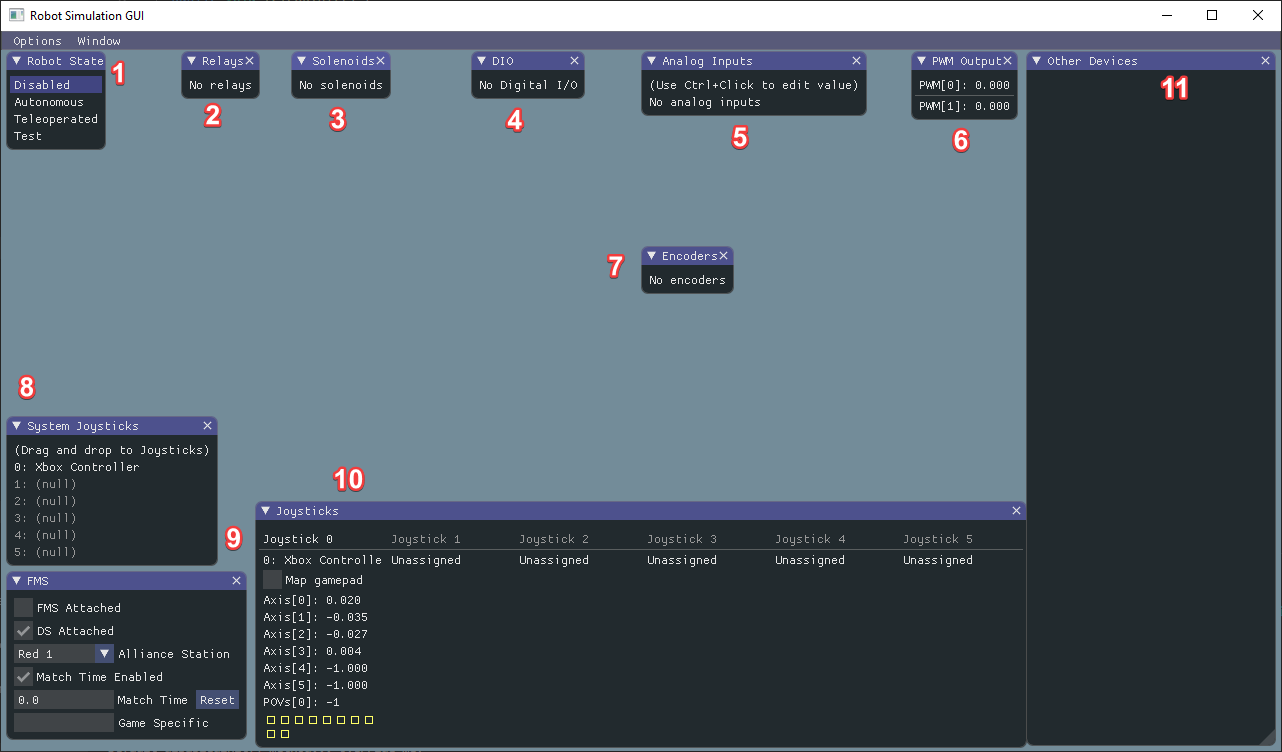
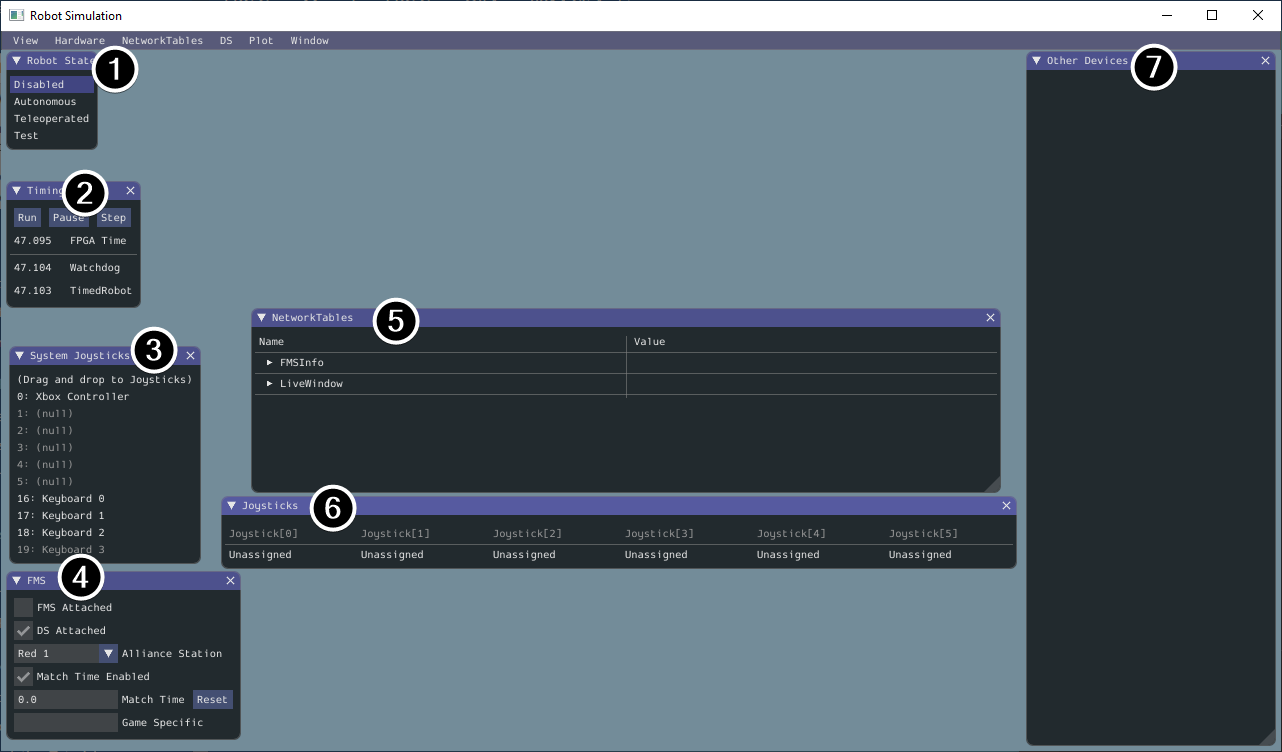
Update for 2021 Sim GUI

diff --git a/source/docs/software/wpilib-tools/robot-simulation/simulation-gui.rst b/source/docs/software/wpilib-tools/robot-simulation/simulation-gui.rst
@@ -8,12 +8,15 @@ WPILib has extended robot simulation to introduce a graphical user interface (GU
 Running the GUI
 ---------------
 
-You can simply launch the GUI via the **Run Simulation** command palette option.
-
 .. image:: images/vscode-run-simulation.png
    :alt: Running simulation via VS Code
 
-And the ``halsim_gui.dll`` option should popup in a new dialog. Select this and press **Ok**. This will now launch the Simulation GUI!
+You can simply launch the GUI via the **Run Simulation** command palette option.
+
+.. image:: images/vscode-pick-extension.png
+   :alt: Picking halsim_gui.dll simulation extension
+
+And the ``halsim_gui.dll`` option should popup in a new dialog (``halsim.gui.so`` on Linux and ``halsim_gui.dylib`` on macOS). Select this and press **Ok**. This will now launch the Simulation GUI!
 
 .. image:: images/sim-gui.png
    :alt: The simulation graphical user interface
@@ -27,17 +30,26 @@ Learning the Layout
 .. image:: images/sim-gui-with-labels.png
    :alt: Simulation graphical user interface but with labels
 
+The following items are shown on the simulation GUI by default:
+
 1. **Robot State** - This is the robot's current state or "mode". You can click on the labels to change mode as you would on the normal Driver Station.
-2. **Relays** - This includes any relay devices. This includes VEX Spike relays.
-3. **Solenoids** - This is a list of "connected" solenoids. When you create a solenoid object and push outputs, these are shown here.
-4. **DIO** - (Digital Input Output) This includes any devices that use the **DIO** connector on the roboRIO.
-5. **Analog Inputs** - This includes any devices that would normally use the **ANALOG IN** connector on the roboRIO, such as any Analog based gyros.
+2. **Timing** - Shows the values of the Robot's timers and allows the timing to be manipulated.
+3. **System Joysticks** - This is a list of joysticks connected to your system currently.
+4. **FMS** - This is used for simulating many of the common FMS systems.
+5. **NetworkTables** - This shows the data that has been published to NetworkTables.
+6. **Joysticks** - This is joysticks that the robot code can directly pull from.
+7. **Other Devices** - This includes devices that do not fall into any of the other categories, such as the ADXRS450 gyro that is included in the Kit of Parts or third party devices that support simulation.
+
+The following items can be added from the Hardware menu, but are not shown by default.
+
+1. **Addressable LEDs** - This shows LEDs controlled by the ``AddressableLED`` Class.
+2. **Analog Inputs** - This includes any devices that would normally use the **ANALOG IN** connector on the roboRIO, such as any Analog based gyros.
+3. **DIO** - (Digital Input Output) This includes any devices that use the **DIO** connector on the roboRIO.
+4. **Encoders** - This will show any instantiated devices that extend or use the ``Encoder`` class.
+5. **PDPs** - This shows the Power Distribution Panel object.
 6. **PWM Outputs** - This is a list of instantiated PWM devices. This will appear as many devices as you instantiate in robot code, as well as their outputs.
-7. **Encoders** - This will show any instantiated devices that extend or use the ``Encoder`` class.
-8. **System Joysticks** - This is a list of joysticks connected to your system currently.
-9. **FMS** - This is used for simulating many of the common FMS systems.
-10. **Joysticks** - This is joysticks that the robot code can directly pull from.
-11. **Other Devices** - This includes devices that do not fall into any of the other categories, such as the ADXRS450 gyro that is included in the Kit of Parts.
+7. **Relays** - This includes any relay devices. This includes VEX Spike relays.
+8. **Solenoids** - This is a list of "connected" solenoids. When you create a solenoid object and push outputs, these are shown here.
 
 Adding a System Joystick to Joysticks
 ^^^^^^^^^^^^^^^^^^^^^^^^^^^^^^^^^^^^^
